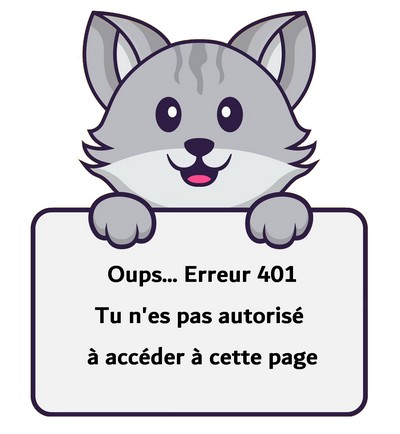
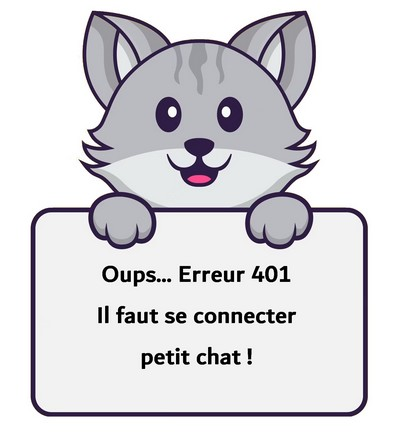
Gestion des erreurs + amélioration du js de la map pour l'intégration de nouveaux lieux

diff --git a/public/map.js b/public/map.js
@@ -51,12 +51,19 @@ function rechercheAdresse(){
         .catch(err=>console.log(err))
 }
 
+function escapeHTML(string) {
+    return string.replace(/"/g, '').replace(/'/g, '');
+}
+
 function listerAdresses(){
     resultats.innerHTML=''
     if (tabAdresses.length>0) {
         tabAdresses.forEach(element => {
+            const displayName = escapeHTML(JSON.stringify(element.display_name));
+            const elementLat = JSON.stringify(element.lat);
+            const elementLon = JSON.stringify(element.lon);
             resultats.innerHTML+=
-                "<button class = 'resultats' type='button' onclick='appliquerAdresse("+JSON.stringify(element)+ ")'>"
+                "<button class='resultats' type='button' onclick='appliquerAdresse(\"" + displayName + "\", " + elementLat + ", " + elementLon + ")'>"
                 + element.display_name
                 +"</button>"
                 +"<br>"
@@ -68,16 +75,16 @@ function listerAdresses(){
 }
 
 
-function appliquerAdresse(element) {
+function appliquerAdresse(displayName, elementLat, elementLon) {
 
     // Supprimez l'ancien marqueur
     map.removeLayer(marker);
 
     // Créez un nouveau marqueur à partir de l'adresse donnée
-    marker = L.marker([element.lat, element.lon]).addTo(map);
+    marker = L.marker([elementLat, elementLon]).addTo(map);
 
     // Utilisez une expression régulière pour extraire le numéro de rue, le mot dérivé (s'il existe) et le nom de la rue/lieu
-    const rueMatch = element.display_name.match(/(\d+\s*(?:[Bb]is|[Tt]er)?)(?:,\s*)?(.*?)\,/);
+    let rueMatch = displayName.match(/(\d+\s*(?:[Bb]is|[Tt]er)?)(?:,\s*)?(.*?)\,/);
     let rue = '';
 
     if (rueMatch) {
@@ -91,18 +98,12 @@ function appliquerAdresse(element) {
     let latitudeText = document.getElementById("lieu_latitude");
     let longitudeText = document.getElementById("lieu_longitude");
     let rueText = document.getElementById("lieu_rue");
-    latitudeText.value = element.lat;
-    longitudeText.value = element.lon;
+    latitudeText.value = elementLat;
+    longitudeText.value = elementLon;
     console.log(rue);
     rueText.value = rue;
 
     // Mettre à jour la map
-    map.flyTo([element.lat, element.lon]);
+    map.flyTo([elementLat, elementLon]);
 
 }
-
-
-
-
-
-

diff --git a/src/Controller/SortieController.php b/src/Controller/SortieController.php
@@ -32,14 +32,13 @@ class SortieController extends AbstractController
         try {
             $userActuel = $this->getUser()->getUserIdentifier();
         } catch (\Throwable $throwable) {
-            return $this->render('error401.html.twig');
+            return $this->render('@Twig/Exception/error401.html.twig');
         }
         $profil = $utilisateurRepository->findOneBy(['username' => $userActuel]);
         $data = new SortiesFiltre();
         $data->sortiesOrganisees = $request->get('sortiesOrganisees', false);
         $form = $this->createForm(SortieFiltreType::class, $data);
         $form->handleRequest($request);
-
         $sorties = $sortieRepository->findAllCustom();
 
         if ($form->isSubmitted() && $form->isValid()) {
@@ -76,14 +75,14 @@ class SortieController extends AbstractController
         try {
             $sortie->setOrganisateur($this->getUser()); // ça me donne l'objet user
         } catch (\Throwable$throwable) {
-            return $this->render('error401.html.twig');
+            return $this->render('@Twig/Exception/error401.html.twig');
         }
 
         // Définir le site rattaché à l'organisateur
         try {
             $username = $this->getUser()->getUserIdentifier(); // ça me donne l'username de l'utilisateur actuellement connecté
         } catch (\Throwable $throwable) {
-            return $this->render('error401.html.twig');
+            return $this->render('@Twig/Exception/error401.html.twig');
         }
 
         // Chercher le site rattaché au username
@@ -127,7 +126,7 @@ class SortieController extends AbstractController
     {
 
         if($this->getUser() !== $sortie->getOrganisateur() || ($sortie->getEtat()->getId() != 1 && $sortie->getEtat()->getId() != 2)) {
-            return $this->render('error401.html.twig');
+            return $this->render('@Twig/Exception/error403.html.twig');
         }
         $sortieForm = $this->createForm(SortieType::class, $sortie);
         $sortieForm->handleRequest($request);
@@ -170,7 +169,7 @@ class SortieController extends AbstractController
         try {
             $userActuel = $this->getUser()->getUserIdentifier();
         } catch (\Throwable $throwable) {
-            return $this->render('error401.html.twig');
+            return $this->render('@Twig/Exception/error401.html.twig');
         }
         return $this->render('sortie/details.html.twig',
             [

diff --git a/src/Controller/LieuController.php b/src/Controller/LieuController.php
@@ -19,6 +19,11 @@ class LieuController extends AbstractController
         LieuRepository $lieuRepository
     ): Response
     {
+        try {
+            $userActuel = $this->getUser()->getUserIdentifier();
+        } catch (\Throwable $throwable) {
+            return $this->render('@Twig/Exception/error401.html.twig');
+        }
         $lieux=$lieuRepository->findAllCustom();
         return $this->render('lieu/liste.html.twig',
             compact('lieux')
@@ -32,9 +37,9 @@ class LieuController extends AbstractController
     ): Response {
         $lieu = new Lieu();
         try {
-            $username=$this->getUser();
+            $userActuel = $this->getUser()->getUserIdentifier();
         } catch (\Throwable $throwable) {
-            return $this->render('error401.html.twig');
+            return $this->render('@Twig/Exception/error401.html.twig');
         }
         $lieuForm = $this->createForm(LieuType::class,$lieu);
         $lieuForm->handleRequest($request);
@@ -59,9 +64,9 @@ public function edit(
     Request $request
 ):Response {
         try {
-            $username=$this->getUser();
+            $userActuel = $this->getUser()->getUserIdentifier();
         } catch (\Throwable $throwable) {
-            return $this->render('error401.html.twig');
+            return $this->render('@Twig/Exception/error401.html.twig');
         }
 
         $lieuForm=$this->createForm(LieuType::class, $lieu);

diff --git a/src/Controller/ProfilController.php b/src/Controller/ProfilController.php
@@ -34,6 +34,11 @@ class ProfilController extends AbstractController
         UtilisateurRepository       $utilisateurRepository
     ): Response
     {
+        try {
+            $userActuel = $this->getUser()->getUserIdentifier();
+        } catch (\Throwable $throwable) {
+            return $this->render('@Twig/Exception/error401.html.twig');
+        }
         $user = $this->getUser();
         $sorties = [];
 
@@ -82,6 +87,11 @@ class ProfilController extends AbstractController
 
     ): Response
     {
+        try {
+            $userActuel = $this->getUser()->getUserIdentifier();
+        } catch (\Throwable $throwable) {
+            return $this->render('@Twig/Exception/error401.html.twig');
+        }
         $userActuel = $this->getUser();
 
 
@@ -121,6 +131,11 @@ class ProfilController extends AbstractController
         int $id
     ): Response
     {
+        try {
+            $userActuel = $this->getUser()->getUserIdentifier();
+        } catch (\Throwable $throwable) {
+            return $this->render('@Twig/Exception/error401.html.twig');
+        }
         //dd($id);
         $user = $utilisateurRepository->findOneBy(
             ["id" => $id]

diff --git a/src/Controller/ParticipationController.php b/src/Controller/ParticipationController.php
@@ -21,6 +21,11 @@ class ParticipationController extends AbstractController
       //  int $id
     ): Response
     {
+        try {
+            $userActuel = $this->getUser()->getUserIdentifier();
+        } catch (\Throwable $throwable) {
+            return $this->render(':bundles/TwigBundle/Exception:error401.html.twig');
+        }
         $etatOuvert=$etatRepository->findOneBy(["id"=>2]);
         if($sortie->getEtat()!==$etatOuvert || !$this->getUser()) {
             return $this->render('error401.html.twig');
@@ -49,6 +54,11 @@ class ParticipationController extends AbstractController
         //  int $id
     ): Response
     {
+        try {
+            $userActuel = $this->getUser()->getUserIdentifier();
+        } catch (\Throwable $throwable) {
+            return $this->render(':bundles/TwigBundle/Exception:error401.html.twig');
+        }
         $etatOuvert=$etatRepository->findOneBy(["id"=>2]);
         if($sortie->getEtat()!==$etatOuvert || !$this->getUser()) {
             return $this->render('error401.html.twig');

diff --git a/src/Repository/SortieRepository.php b/src/Repository/SortieRepository.php
@@ -65,6 +65,7 @@ class SortieRepository extends ServiceEntityRepository
 
             ->addOrderBy('sortie.nom','ASC')
             ->andWhere('sortie.estPublie=true')
+            ->andWhere('sortie.etat!=7')
             ->setMaxResults(10)
             ->getQuery();
         $paginator = new Paginator($queryBuilder);
@@ -83,6 +84,14 @@ class SortieRepository extends ServiceEntityRepository
         $query = $this
             ->createQueryBuilder('sortie')
             ->select('sortie');
+
+        if(empty($sortiesFiltre->sortiesOrganisees) && empty($sortiesFiltre->sortiesPassees) && empty($sortiesFiltre->sortiesNonInscrit) && empty($sortiesFiltre->sortiesInscrit) && empty($sortiesFiltre->getName())) {
+            $query = $query
+                ->addOrderBy('sortie.nom','ASC')
+                ->andWhere('sortie.estPublie=true')
+                ->andWhere('sortie.etat!=7')
+                ->setMaxResults(10);
+        }
 
         if (!empty($sortiesFiltre->sortiesOrganisees)) {
             $query = $query
